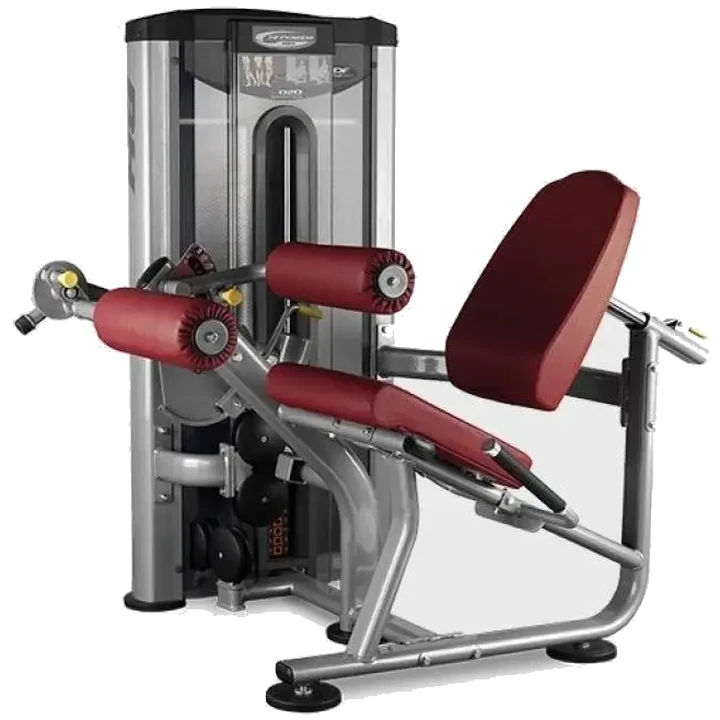
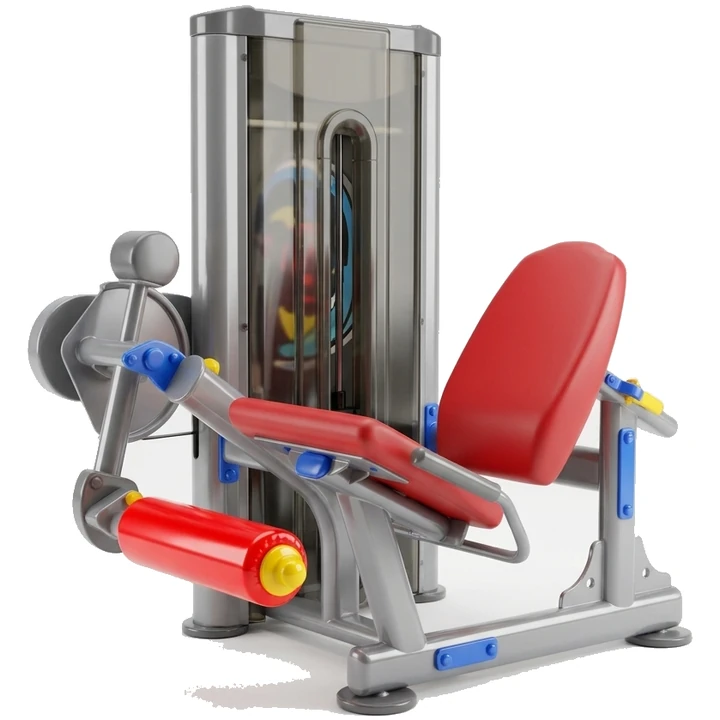
feat(catalog): give every exercise a machine image
The catalog grows to 35 exercises and none is left without a picture. New: Remo a una mano (the unilateral row next to the seated one), Curl de biceps con mancuernas, Curl femoral tumbado (the prone Axiom machine, split from the standing one), Elevaciones laterales en maquina and Elevacion de talones de pie. Renames: the standing leg curl is no longer called 'tumbado', and both 'Jalon' exercises now say 'Pulldown'; ids stay untouched so saved routines and sessions keep resolving.

Nine renders were processed with the same pipeline (background removal, square crop, 720 px WebP): dumbbell rack, flat bench, floor mat, multi-gym reuse, leg curl, lying leg curl, leg press, dip station, crunch machine and lateral raise. bench-press.webp is gone because it was byte-identical to flat-bench.webp, and seated-row/leg-extension now carry the cleaner renders.

diff --git a/src/app/core/exercise-catalog.ts b/src/app/core/exercise-catalog.ts
@@ -1,39 +1,159 @@
 import { Exercise, ExerciseGroup } from './models';
 
 export const EXERCISES: readonly Exercise[] = [
-  { id: 'core-plancha', name: 'Plancha abdominal', group: 'CORE' },
-  { id: 'core-elevacion-piernas', name: 'Elevación de piernas', group: 'CORE' },
-  { id: 'core-crunch-polea', name: 'Crunch en polea alta', group: 'CORE' },
-  { id: 'core-crunch-maquina', name: 'Crunch en máquina', group: 'CORE' },
-  { id: 'core-rueda', name: 'Rueda abdominal', group: 'CORE' },
-  { id: 'core-hollow', name: 'Hollow hold', group: 'CORE' },
-  { id: 'core-press-pallof', name: 'Press Pallof', group: 'CORE' },
-  { id: 'core-dead-bug', name: 'Dead bug', group: 'CORE' },
+  {
+    id: 'core-plancha',
+    name: 'Plancha abdominal',
+    group: 'CORE',
+    image: '/exercises/floor-mat.webp',
+  },
+  {
+    id: 'core-elevacion-piernas',
+    name: 'Elevación de piernas',
+    group: 'CORE',
+    image: '/exercises/flat-bench.webp',
+  },
+  {
+    id: 'core-crunch-polea',
+    name: 'Crunch en polea alta',
+    group: 'CORE',
+    image: '/exercises/multi-gym.webp',
+  },
+  {
+    id: 'core-crunch-maquina',
+    name: 'Crunch en máquina',
+    group: 'CORE',
+    image: '/exercises/crunch-machine.webp',
+  },
+  {
+    id: 'core-rueda',
+    name: 'Rueda abdominal',
+    group: 'CORE',
+    image: '/exercises/floor-mat.webp',
+  },
+  {
+    id: 'core-hollow',
+    name: 'Hollow hold',
+    group: 'CORE',
+    image: '/exercises/floor-mat.webp',
+  },
+  {
+    id: 'core-press-pallof',
+    name: 'Press Pallof',
+    group: 'CORE',
+    image: '/exercises/multi-gym.webp',
+  },
+  {
+    id: 'core-dead-bug',
+    name: 'Dead bug',
+    group: 'CORE',
+    image: '/exercises/floor-mat.webp',
+  },
   { id: 'core-contractora', name: 'Aperturas en contractora', group: 'CORE', image: '/exercises/butterfly.webp' },
   { id: 'core-press-pecho', name: 'Press de pecho en máquina', group: 'CORE', image: '/exercises/chest-press.webp' },
-  { id: 'core-press-banca', name: 'Press de banca plano', group: 'CORE', image: '/exercises/bench-press.webp' },
+  {
+    id: 'core-press-banca',
+    name: 'Press de banca plano',
+    group: 'CORE',
+    image: '/exercises/flat-bench.webp',
+  },
 
-  { id: 'piernas-sentadilla', name: 'Sentadilla con barra', group: 'PIERNAS' },
-  { id: 'piernas-prensa', name: 'Prensa de piernas', group: 'PIERNAS' },
-  { id: 'piernas-zancadas', name: 'Zancadas con mancuernas', group: 'PIERNAS' },
-  { id: 'piernas-peso-muerto', name: 'Peso muerto rumano', group: 'PIERNAS' },
+  {
+    id: 'piernas-sentadilla',
+    name: 'Sentadilla con barra',
+    group: 'PIERNAS',
+    image: '/exercises/floor-mat.webp',
+  },
+  { id: 'piernas-prensa', name: 'Prensa de piernas', group: 'PIERNAS', image: '/exercises/leg-press.webp' },
+  {
+    id: 'piernas-zancadas',
+    name: 'Zancadas con mancuernas',
+    group: 'PIERNAS',
+    image: '/exercises/dumbbell-rack.webp',
+  },
+  {
+    id: 'piernas-peso-muerto',
+    name: 'Peso muerto rumano',
+    group: 'PIERNAS',
+    image: '/exercises/dumbbell-rack.webp',
+  },
   { id: 'piernas-extension', name: 'Extensión de cuádriceps', group: 'PIERNAS', image: '/exercises/leg-extension.webp' },
-  { id: 'piernas-curl-femoral', name: 'Curl femoral tumbado', group: 'PIERNAS' },
+  {
+    id: 'piernas-curl-femoral',
+    name: 'Curl femoral de pie',
+    group: 'PIERNAS',
+    image: '/exercises/leg-curl.webp',
+  },
+  {
+    id: 'piernas-curl-femoral-tumbado',
+    name: 'Curl femoral tumbado',
+    group: 'PIERNAS',
+    image: '/exercises/lying-leg-curl.webp',
+  },
   { id: 'piernas-abduccion', name: 'Abducción de cadera en máquina', group: 'PIERNAS', image: '/exercises/hip-abduction.webp' },
   { id: 'piernas-cadera', name: 'Extensión de cadera en máquina', group: 'PIERNAS', image: '/exercises/hip-extension.webp' },
+  {
+    id: 'piernas-talones',
+    name: 'Elevación de talones de pie',
+    group: 'PIERNAS',
+    image: '/exercises/hip-extension.webp',
+  },
 
   { id: 'brazos-curl-barra', name: 'Curl de bíceps con barra', group: 'BRAZOS', image: '/exercises/preacher-curl.webp' },
-  { id: 'brazos-curl-martillo', name: 'Curl martillo', group: 'BRAZOS' },
-  { id: 'brazos-press-frances', name: 'Press francés', group: 'BRAZOS' },
-  { id: 'brazos-jalon-triceps', name: 'Jalón de tríceps en polea', group: 'BRAZOS', image: '/exercises/triceps-pushdown.webp' },
-  { id: 'brazos-fondos', name: 'Fondos en paralelas', group: 'BRAZOS' },
+  {
+    id: 'brazos-curl-mancuernas',
+    name: 'Curl de bíceps con mancuernas',
+    group: 'BRAZOS',
+    image: '/exercises/dumbbell-rack.webp',
+  },
+  {
+    id: 'brazos-curl-martillo',
+    name: 'Curl martillo',
+    group: 'BRAZOS',
+    image: '/exercises/dumbbell-rack.webp',
+  },
+  {
+    id: 'brazos-press-frances',
+    name: 'Press francés',
+    group: 'BRAZOS',
+    image: '/exercises/flat-bench.webp',
+  },
+  { id: 'brazos-jalon-triceps', name: 'Pulldown de tríceps en polea', group: 'BRAZOS', image: '/exercises/triceps-pushdown.webp' },
+  {
+    id: 'brazos-fondos',
+    name: 'Fondos en paralelas',
+    group: 'BRAZOS',
+    image: '/exercises/dip-station.webp',
+  },
   { id: 'brazos-press-hombros', name: 'Press de hombros en máquina', group: 'BRAZOS', image: '/exercises/shoulder-press.webp' },
   { id: 'brazos-deltoides-posterior', name: 'Deltoides posterior en máquina', group: 'BRAZOS', image: '/exercises/rear-delt.webp' },
+  {
+    id: 'brazos-elevaciones-laterales',
+    name: 'Elevaciones laterales en máquina',
+    group: 'BRAZOS',
+    image: '/exercises/lateral-raise.webp',
+  },
 
-  { id: 'espalda-jalon-pecho', name: 'Jalón al pecho', group: 'ESPALDA', image: '/exercises/lat-pulley.webp' },
-  { id: 'espalda-remo-sentado', name: 'Remo sentado', group: 'ESPALDA', image: '/exercises/seated-row.webp' },
-  { id: 'espalda-dominadas', name: 'Dominadas', group: 'ESPALDA' },
-  { id: 'espalda-hiperextensiones', name: 'Hiperextensiones', group: 'ESPALDA' },
+  { id: 'espalda-jalon-pecho', name: 'Pulldown al pecho', group: 'ESPALDA', image: '/exercises/lat-pulley.webp' },
+  { id: 'espalda-remo-sentado', name: 'Remo sentado', group: 'ESPALDA', image: '/exercises/multi-gym.webp' },
+  {
+    id: 'espalda-remo-mancuerna',
+    name: 'Remo a una mano',
+    group: 'ESPALDA',
+    image: '/exercises/seated-row.webp',
+  },
+  {
+    id: 'espalda-dominadas',
+    name: 'Dominadas',
+    group: 'ESPALDA',
+    image: '/exercises/multi-gym.webp',
+  },
+  {
+    id: 'espalda-hiperextensiones',
+    name: 'Hiperextensiones',
+    group: 'ESPALDA',
+    image: '/exercises/multi-gym.webp',
+  },
 ];
 
 export const GROUP_ORDER: readonly ExerciseGroup[] = ['CORE', 'PIERNAS', 'BRAZOS', 'ESPALDA'];
